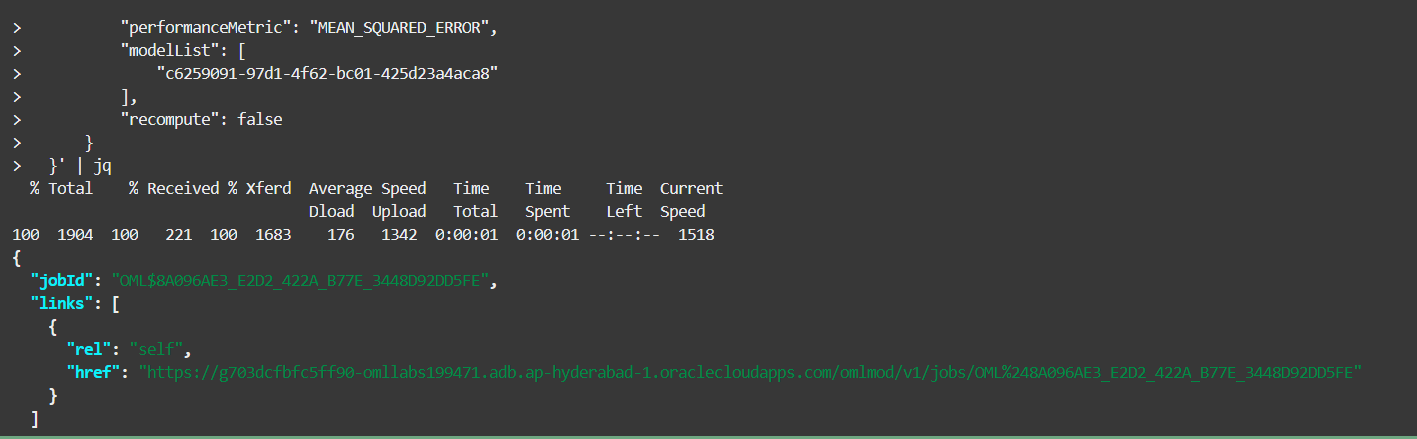
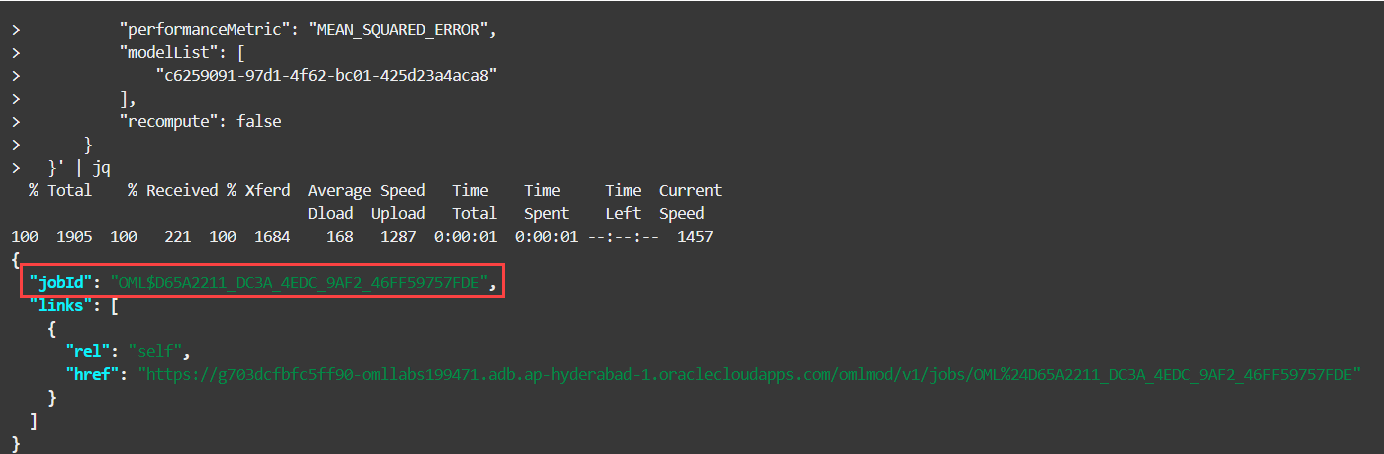
updated model monitoring content
SS on output table added

diff --git a/oml-restapi-services/omls-model-monitoring/omls-model-monitoring.md b/oml-restapi-services/omls-model-monitoring/omls-model-monitoring.md
@@ -69,7 +69,7 @@ To monitor your models:
 
     The GET request returns the following:
     ```
-    "modelId": "0bf13d1f-86a6-465d-93d1-8985afd1bbdb"
+    "modelId": "c6259091-97d1-4f62-bc01-425d23a4aca8"
     ```
   Alternatively, you can obtain the modelID from the Deployments tab. See screenshot here.
 
@@ -97,7 +97,7 @@ To monitor your models:
           "maxRuns": "5"                                          
       },
       "jobProperties": {
-          "jobName": "MY_MODEL_MONITOR1",                         
+          "jobName": "MY_MODEL_MONITOR2",                         
           "jobType": "MODEL_MONITORING",                          
           "disableJob": false,                                    
           "jobServiceLevel": "LOW",                                
@@ -189,7 +189,7 @@ This completes the task of creating and running a model monitoring job.
 
     ```
     <copy>
-    $ export jobid='OML$8A096AE3_E2D2_422A_B77E_3448D92DD5FE'   # define the Job ID as a single-quoted variable 
+    $ export jobid='OML$D65A2211_DC3A_4EDC_9AF2_46FF59757FDE'    
 
     $ curl -X GET "${omlservice}/omlmod/v1/jobs/${jobid}"  \
         --header 'Accept: application/json' \
@@ -203,21 +203,20 @@ This completes the task of creating and running a model monitoring job.
   
   Here is a sample output of the job details request. The `jobStatus` `CREATED` indicates that the job has been created. If your job has already run once, you will see information returned about the last job run.
  
-
-    ```
+  ```
     <copy>
     returns:
 
-   % Total    % Received % Xferd  Average Speed   Time    Time     Time  Current
+    % Total    % Received % Xferd  Average Speed   Time    Time     Time  Current
                                  Dload  Upload   Total   Spent    Left  Speed
-100  1144  100  1144    0     0    429      0  0:00:02  0:00:02 --:--:--   429
+100  1142  100  1142    0     0    849      0  0:00:01  0:00:01 --:--:--   849
 {
-  "jobId": "OML$F1C3A995_6411_4F33_ACD3_2C7F49E8BEF4",
+  "jobId": "OML$D65A2211_DC3A_4EDC_9AF2_46FF59757FDE",
   "jobRequest": {
     "jobSchedule": {
-      "jobStartDate": "2026-02-10T00:30:07Z",
+      "jobStartDate": "2026-04-22T00:30:07Z",
       "repeatInterval": "FREQ=HOURLY",
-      "jobEndDate": "2026-02-10T20:50:06Z",
+      "jobEndDate": "2026-04-30T20:50:06Z",
       "maxRuns": 5
     },
     "jobProperties": {
@@ -226,54 +225,62 @@ This completes the task of creating and running a model monitoring job.
       "outputSchemaName": "OMLUSER",
       "outputData": "Global_Active_Power_Monitor",
       "jobDescription": "Global active power monitoring job",
-      "jobName": "MY_MODEL_MONITOR1",
+      "jobName": "MY_MODEL_MONITOR2",
       "disableJob": false,
       "jobServiceLevel": "LOW",
       "baselineData": "HOUSEHOLD_POWER_BASE",
       "newData": "HOUSEHOLD_POWER_NEW",
       "timeColumn": "DATES",
-      "startDate": "2008-01-01T00:00:00Z",
-      "endDate": "2010-11-26T00:00:00Z",
-      "frequency": "Year",
+      "startDate": "2007-12-21T00:00:00Z",
+      "endDate": "2007-12-31T00:00:00Z",
+      "frequency": "DAY",
       "threshold": 0.15,
       "recompute": false,
       "caseidColumn": null,
       "modelList": [
-        "bca24320-f88a-4167-8f7c-871d8b03cec1"
+        "c6259091-97d1-4f62-bc01-425d23a4aca8"
       ],
       "performanceMetric": "MEAN_SQUARED_ERROR"
     }
   },
   "jobStatus": "CREATED",
-  "dateSubmitted": "2026-02-10T13:16:20.251117Z",
+  "dateSubmitted": "2026-04-22T12:25:34.29732Z",
   "links": [
     {
       "rel": "self",
-      "href": "https://g703dcfbfc5ff90-omllabs184823.adb.ap-hyderabad-1.oraclecloudapps.com/omlmod/v1/jobs/OML%24F1C3A995_6411_4F33_ACD3_2C7F49E8BEF4"
+      "href": "https://g703dcfbfc5ff90-omllabs199471.adb.ap-hyderabad-1.oraclecloudapps.com/omlmod/v1/jobs/OML%24D65A2211_DC3A_4EDC_9AF2_46FF59757FDE"
     }
   ],
   "jobFlags": [],
   "state": "SCHEDULED",
   "enabled": true,
-  "nextRunDate": "2026-02-10T13:30:07.412753Z",
+  "nextRunDate": "2026-04-22T12:30:07.413217Z",
   "runCount": 0
 }
 
     </copy>
     ```
+
   ![Model Monitoring Job details](images/mm-job-details1.png)
   ![Model Monitoring Job details](images/mm-job-details2.png)
   ![Model Monitoring Job details](images/mm-job-details3.png)
 
+2. Run this job after an hour. In Task 1 of this lab, we defined the `repeatInterval` of the model monitoring job to `HOURLY`. Hence, run this job after an hour to check the `jobRunStatus`.
+
+    >**Note:** Note the `jobRunStatus` parameter. The status now shows `SUCCEEDED`.
+
+ 
+  ![Model Monitoring Job details](images/mm-job-details4.png)
+
 
 ## Task 3: Query the Output Table to view the Model Monitoring Details  
-Once your job has run, either according to its schedule or by the RUN action, you can view its output in the table you specified in your job request with the `outputData` parameter. The full name of the table is in the format `{jobId}_{outputData}`.
+Once your job has run successfully, either according to its schedule or by the RUN action, you can view its output in the table you specified in your job request with the `outputData` parameter. The full name of the table is in the format `{jobId}_{outputData}`.
 
 To query the output table: 
 
 1. Check if your job is complete by sending a request to view its details. If your job has run at least once you should see the `lastRunDetail` parameter with information on that run.
 
-2. Run the SQL command to query the model monitoring output table. Here is the syntax:
+2. In a `%sql` paragraph in a notebook, run the following SQL command to query the model monitoring output table. Here is the syntax:
 
     ```
     %sql
@@ -288,16 +295,24 @@ To query the output table:
     ```
     <copy>
     %sql
-
-
     SELECT IS_BASELINE, MODEL_ID, round(METRIC, 4), HAS_DRIFT, round(DRIFT, 4), MODEL_TYPE, 
-        THRESHOLD, MODEL_METRICS 
-    FROM OML$736F509B_FC1A_400A_AC75_553F1D6C5D97_Global_Active_Power_Monitor
-
+    THRESHOLD, MODEL_METRICS 
+    FROM OML$D65A2211_DC3A_4EDC_9AF2_46FF59757FDE_Global_Active_Power_Monitor
+    
     </copy>
     ```
-  The query returns a table with the columns `IS_BASELINE`, `MODEL_ID`, `ROUND (METRIC, 4)`, `HAS_DRIFT`, `ROUND (DRIFT, 4)`, `MODEL_TYPE`, `THRESHOLD`, and `MODEL_METRICS`. Note that the first row of results is the `baseline` time period. As drift is not calculated on data in the `baseline` time period, that is why the columns `HAS_DRIFT` , `ROUND (DRIFT, 4)`, and `THRESHOLD` are empty for this row. 
+  The query returns a table with the columns `IS_BASELINE`, `MODEL_ID`, `ROUND (METRIC, 4)`, `HAS_DRIFT`, `ROUND (DRIFT, 4)`, `MODEL_TYPE`, `THRESHOLD`, and `MODEL_METRICS`.
+  
+    >**Note:** The first row of results is the `baseline` time period. As drift is not calculated on data in the `baseline` time period, that is why the columns `HAS_DRIFT` , `ROUND (DRIFT, 4)`, and `THRESHOLD` are empty for this row. 
 
+  Here is a screenshot of the output table:
+    ![Model Monitoring Output table](images/mm-output-table-01.png)
+
+  Scroll to the right to view the model metrics, as shown in the screenshot here.
+
+    ![Model Monitoring Output table](images/mm-output-table-02.png)
+
+  This completes the task of creating and running a model monitoring job. 
 
 ## Learn More
 

diff --git a/oml-restapi-services/omls-data-monitoring/omls-data-monitoring.md b/oml-restapi-services/omls-data-monitoring/omls-data-monitoring.md
@@ -62,7 +62,7 @@ To create a data monitoring job:
 
   ```
       <copy>
-      $ curl -X POST "<oml-cloud-service-location-url>/omlmod/v1/jobs" \
+      $ curl -X POST "${omlservice}/omlmod/v1/jobs" \
         --header "Authorization: Bearer ${token}" \
         --header 'Content-Type: application/json' \
         --data '{
